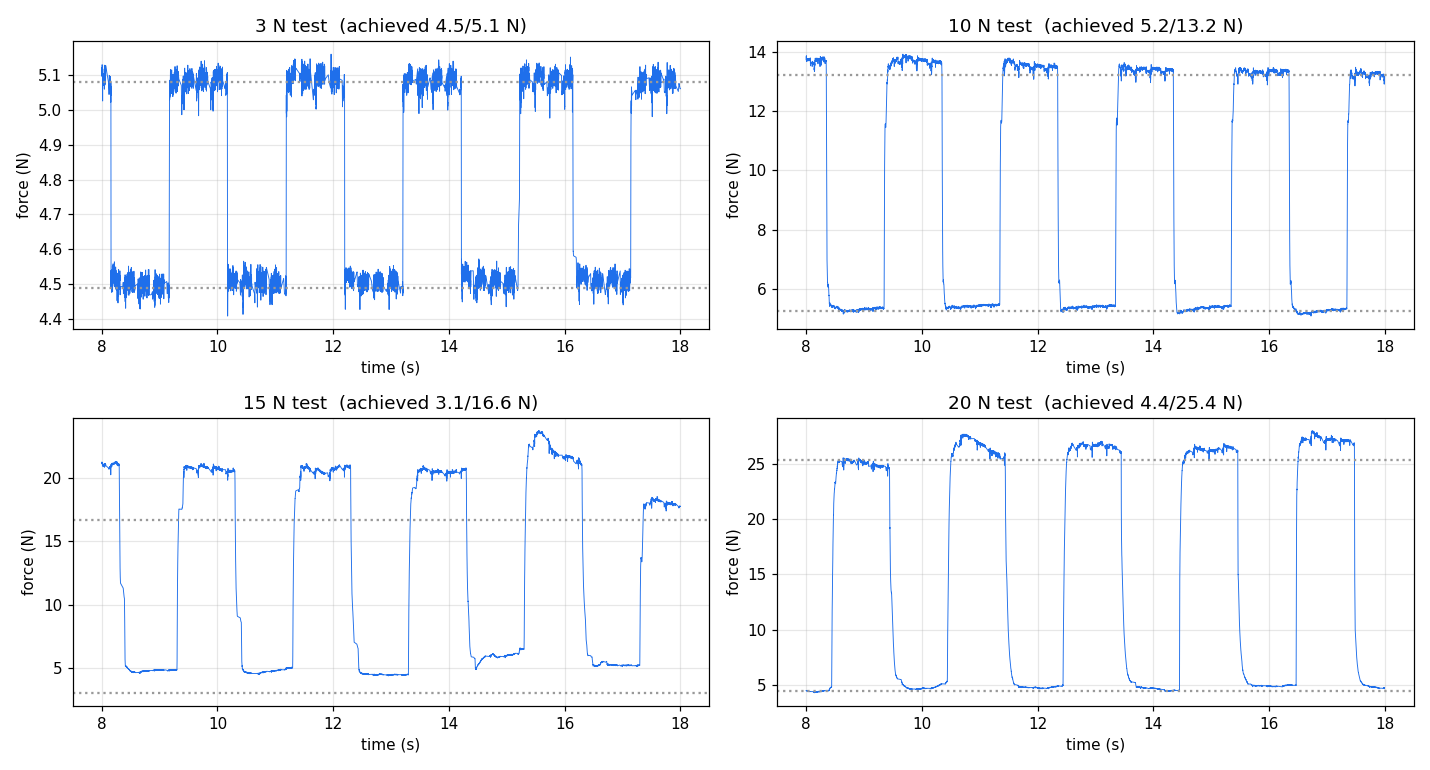
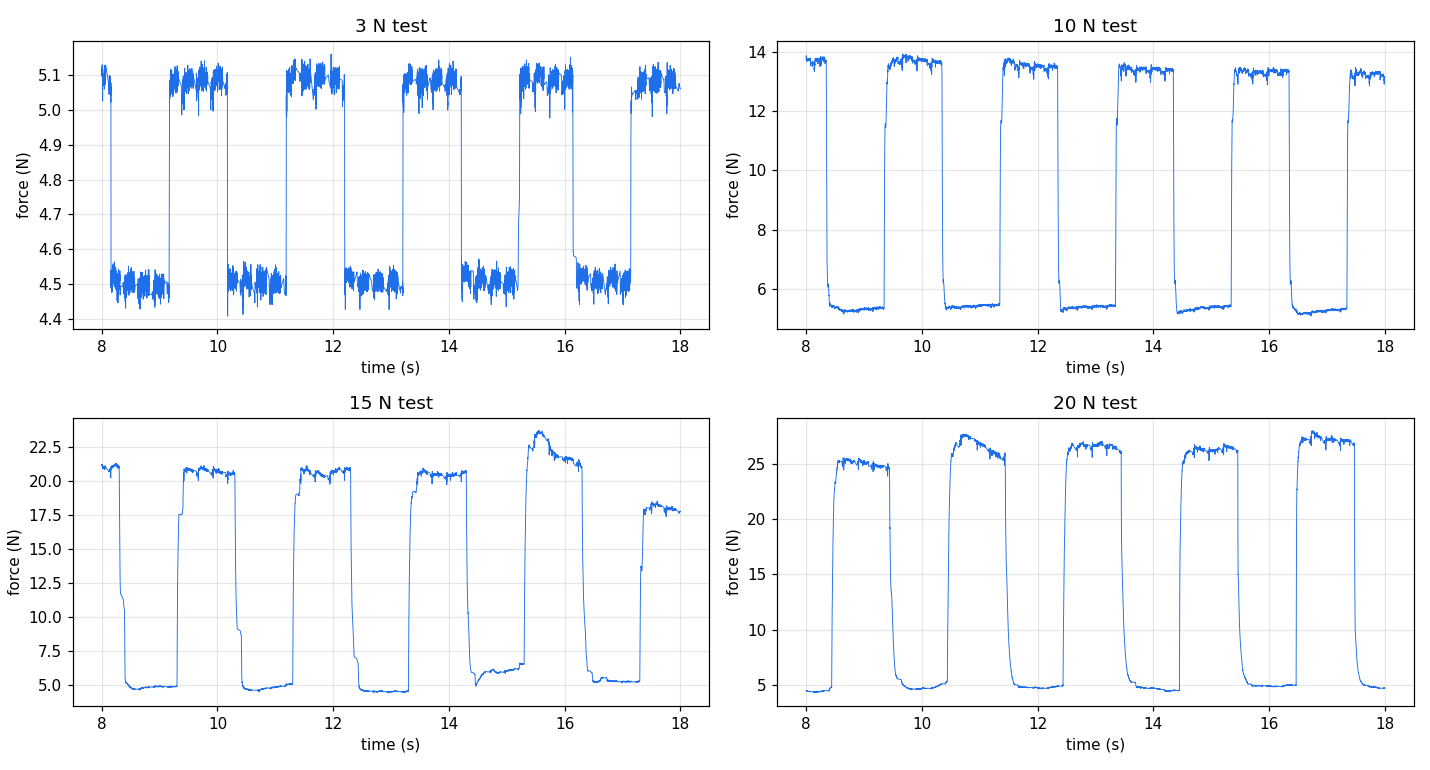
fixed test page

diff --git a/testing.html b/testing.html
@@ -374,7 +374,7 @@
         <div class="content has-text-justified" style="color:#3a3050;">
           <p>Equivalent mechanical impedance of the fingertip, measured across three finger configurations.
             The extended pose is the most compliant and lightly damped; the retracted pose is the stiffest;
-            the mid pose is the most damped.</p>
+            the middle pose is the most damped.</p>
         </div>
 
         <div class="columns is-centered">
@@ -396,29 +396,24 @@
           </div>
         </div>
 
-        <div class="test-figure" data-caption="Impedance magnitude (top) and coherence (bottom). Config 1 shows a deep, sharp resonance (light damping); config 2 is stiffest; config 3 is the most damped, but coherence falls above ~15 Hz.">
-          <img src="static/images/testing/imp_comparison.png" alt="Impedance magnitude and coherence across configurations">
-        </div>
-        <p class="fig-caption has-text-centered">Impedance magnitude (top) and coherence (bottom). Config 1 shows a deep, sharp resonance (light damping); config 2 is stiffest; config 3 is the most damped, but coherence falls above ~15 Hz.</p>
-
         <div class="columns mt-5">
           <div class="column">
             <div class="test-figure" data-caption="Config 1 — extended.">
-              <img src="static/images/testing/imp_config1.png" alt="Config 1 fit">
+              <img src="static/images/testing/impedance_extended.png" alt="Config 1 fit">
             </div>
-            <p class="fig-caption has-text-centered">Config 1 | extended.</p>
+            <p class="fig-caption has-text-centered">Config 1 | Extended.</p>
           </div>
           <div class="column">
             <div class="test-figure" data-caption="Config 2 — retracted.">
-              <img src="static/images/testing/imp_config2.png" alt="Config 2 fit">
+              <img src="static/images/testing/impedance_retracted.png" alt="Config 2 fit">
             </div>
-            <p class="fig-caption has-text-centered">Config 2 | retracted.</p>
+            <p class="fig-caption has-text-centered">Config 2 | Retracted.</p>
           </div>
           <div class="column">
             <div class="test-figure" data-caption="Config 3 — mid.">
-              <img src="static/images/testing/imp_config3.png" alt="Config 3 fit">
+              <img src="static/images/testing/impedance_middle.png" alt="Config 3 fit">
             </div>
-            <p class="fig-caption has-text-centered">Config 3 | mid.</p>
+            <p class="fig-caption has-text-centered">Config 3 | Middle</p>
           </div>
         </div>
       </div>
@@ -431,31 +426,57 @@
         </h2>
 
         <div class="metric-row">
-          <span class="metric-pill"><span class="pill-label">RMS Error</span><span class="pill-value">1.27 mm</span></span>
-          <span class="metric-pill"><span class="pill-label">% Error</span><span class="pill-value">4.2%</span></span>
-          <span class="metric-pill"><span class="pill-label">Max Error</span><span class="pill-value">3.74 mm</span></span>
+          <span class="metric-pill"><span class="pill-label">Average RMS Error</span><span class="pill-value">7.352 mm</span></span>
+          <span class="metric-pill"><span class="pill-label">Average Mean Error</span><span class="pill-value">6.591 mm</span></span>
+          <span class="metric-pill"><span class="pill-label">Average Max Error</span><span class="pill-value">12.573 mm</span></span>
+        </div>
+
+        <div class="video" style="display:flex; flex-direction:column; align-items:center; justify-content:center;">
+          <div style="width:100%; max-width:800px; margin:0 auto; border-radius:12px; overflow:hidden; box-shadow:0 8px 32px rgba(78,42,132,0.18);">
+            <div style="position:relative; aspect-ratio:16/9;">
+              <iframe style="position:absolute; top:0; left:0; width:100%; height:100%; border:none;"
+                src="https://youtu.be/9s27Xjp0ZQc?si=UtnszTUuHPwZIWpe"
+                title="Lissajous Test"
+                referrerpolicy="strict-origin-when-cross-origin"
+                allow="accelerometer; autoplay; clipboard-write; encrypted-media; gyroscope; picture-in-picture; web-share"
+                allowfullscreen></iframe>
+            </div>
+          </div>
+          <p style="max-width:800px; text-align:center; margin-top:10px; font-size:14px; color:#666;">
+            Video of the Lissajous trajectory we attempted to track.
+          </p>
+        </div>
+
+        <div class="columns is-centered">
+          <div class="column is-three-quarters">
+            <div class="test-table-wrap">
+              <table class="test-table">
+                <thead>
+                  <tr>
+                    <th>Trial</th><th>Mean Error(mm)</th><th>RMS Error(mm)</th><th>Max Error(mm)</th>
+                  </tr>
+                </thead>
+                <tbody>
+                  <tr><td>1</td><td>5.919</td><td>6.789</td><td>11.829</td></tr>
+                  <tr><td>2</td><td>6.164</td><td>6.982</td><td>12.045</td></tr>
+                  <tr><td>3</td><td>7.463</td><td>8.076</td><td>12.573</td></tr>
+                  <tr><td>4</td><td>6.817</td><td>7.491</td><td>12.323</td></tr>
+                </tbody>
+              </table>
+            </div>
+          </div>
         </div>
 
         <div class="content has-text-justified" style="color:#3a3050;">
           <p>The fingertip traces a 1:2 Lissajous figure in the flexion plane while a marker is tracked
-          by camera. Integrating the position error over the complete path gives an RMS tracking error
-          of <strong>1.27 mm</strong>, which is about 4% of the 30 mm figure.</p>
+          by camera. From the figure it can be seen that the finger tip does not fully track the desired trajectory, with an average max error of 12.573mm, 
+          however, the result is very repeatable.</p>
+        </div>
+        
+        <div class="test-figure" data-caption="Lassajous Trajectory Tracking">
+          <img src="static/images/testing/lassajous_out.png" alt="Lassajous Trajectory Tracking">
         </div>
 
-        <div class="columns">
-          <div class="column">
-            <div class="test-figure" data-caption="Measured path coloured by error, over the reference Lissajous, with error vs path.">
-              <img src="static/images/testing/trk_result.png" alt="Measured path vs reference">
-            </div>
-            <p class="fig-caption has-text-centered">Measured path coloured by error, over the reference Lissajous, with error vs path.</p>
-          </div>
-          <div class="column">
-            <div class="test-figure" data-caption="Marker detection — tracked centroid on the fingertip dot.">
-              <img src="static/images/testing/trk_detection.png" alt="Marker detection">
-            </div>
-            <p class="fig-caption has-text-centered">Marker detection tracking fingertip dot.</p>
-          </div>
-        </div>
       </div>
 
       <!-- ══════════ 3 · SINUSOIDAL POSITION CONTROL ══════════ -->
@@ -466,26 +487,45 @@
         </h2>
 
         <div class="metric-row">
-          <span class="metric-pill"><span class="pill-label">DC gain</span><span class="pill-value">1.07 (+0.6 dB)</span></span>
-          <span class="metric-pill"><span class="pill-label">−3 dB BW</span><span class="pill-value">3.8 Hz</span></span>
+          <span class="metric-pill"><span class="pill-label">DC gain</span><span class="pill-value">1.29 (+2.22 dB)</span></span>
+          <span class="metric-pill"><span class="pill-label">−3 dB BW</span><span class="pill-value">3.15 Hz</span></span>
         </div>
 
         <div class="content has-text-justified" style="color:#3a3050;">
-          <p>Closed-loop joint position-tracking frequency response from a position chirp. The controller
-          tracks with near-unity gain up to ~3 Hz and a clean low-pass rolloff, with a −3 dB bandwidth of
-          ~3.8 Hz. Runs 1 and 2 sweep from 0.1 to 30 Hz; run 3 sweeps from 30 to 50 Hz.
-          Two independent repeat sweeps give the same gain curve, confirming linearity and repeatability.</p>
+          <p>The finger reached its -3dB bandwidth at a frequency of 3.15Hz, meaning that it was able to achieve a linear response up this frequency. The system begins
+            to experience attenuation after this point, with a significant magniutde drop off at around 7Hz. There also looks to be a resonant peak around 8Hz, however,
+            it is difficult to make a conclusive claim about this, as the coherence drops below 0.6 at frequencies greater than 6Hz. Low coherence is also present in the low
+            frequency range, indicating that the chirp signal was not long enough to get a meaningful reading. The last indicator of our systems performance is the phase delay, 
+            which can be seen to be near zero between 1 and 5 Hz, indicating that minimal phase lag was present at these frequencies. The lack of coherence at higher frequencies 
+            makes the phase response unreliable from this reading.
+          </p>
         </div>
 
-        <div class="test-figure" data-caption="Closed-loop tracking response (gain, phase, and run-to-run repeatability).">
-          <img src="static/images/testing/chirp_bode.png" alt="Position tracking Bode">
+        <div class="video" style="display:flex; flex-direction:column; align-items:center; justify-content:center;">
+          <div style="width:100%; max-width:800px; margin:0 auto; border-radius:12px; overflow:hidden; box-shadow:0 8px 32px rgba(78,42,132,0.18);">
+            <div style="position:relative; aspect-ratio:16/9;">
+              <iframe style="position:absolute; top:0; left:0; width:100%; height:100%; border:none;"
+                src="https://youtu.be/LtvgRochfXE?si=3lrWFA3bX2FksK_C"
+                title="Position Chirp Test"
+                referrerpolicy="strict-origin-when-cross-origin"
+                allow="accelerometer; autoplay; clipboard-write; encrypted-media; gyroscope; picture-in-picture; web-share"
+                allowfullscreen></iframe>
+            </div>
+          </div>
+          <p style="max-width:800px; text-align:center; margin-top:10px; font-size:14px; color:#666;">
+            Video of the position chirp test we ran to obtain the data for this test.
+          </p>
         </div>
-        <p class="fig-caption has-text-centered">Closed-loop tracking response of 0.1 to 30 Hz chirp sweep for runs 1 and 2, and 30 to 50 Hz for run 3.</p>
 
-        <div class="test-figure mt-4" data-caption="Per-run time series and spectrograms; runs 1–2 sweep cleanly to ~30 Hz, run 3 folds at the 50 Hz Nyquist limit.">
-          <img src="static/images/testing/chirp_diag.png" alt="Per-run diagnostics">
+        <div class="test-figure" data-caption="Position Chirp Bode Plot">
+          <img src="static/images/testing/position_chirp_bode.jpg" alt="Position Chirp Bode Plot">
         </div>
-        <p class="fig-caption has-text-centered">Per-run time series and spectrograms; runs 1–2 sweep cleanly to ~30 Hz, run 3 command is corrupted due to aliasing.</p>
+        <p class="fig-caption has-text-centered">Bode plot of position chirp from 0.1 to 30 Hz.</p>
+
+        <div class="test-figure" data-caption="Time series of a the position chirp from 0.1 to 30 Hz.">
+          <img src="static/images/testing/finger_tip_joint_angle.png" alt="Time series of chirp">
+        </div>
+        <p class="fig-caption has-text-centered">Time series of the position chirp from 0.1 to 30 Hz.</p>
       </div>
 
       <!-- ══════════ 4 · VELOCITY CONTROL BANDWIDTH ══════════ -->
@@ -494,54 +534,42 @@
           <span class="title-num">4</span>
           Velocity Control Bandwidth
         </h2>
-
-        <div class="metric-row">
-          <span class="metric-pill"><span class="pill-label">−3 dB BW</span><span class="pill-value">&gt; tested range</span></span>
-          <span class="metric-pill"><span class="pill-label">gain</span><span class="pill-value">~0.6 flat</span></span>
-          <span class="metric-pill"><span class="pill-label">fitted corner</span><span class="pill-value">37.6 Hz</span></span>
-        </div>
-
         <div class="content has-text-justified" style="color:#3a3050;">
-          <p>Fingertip velocity-tracking response under a commanded velocity chirp. The velocity gain is
-          essentially flat with no −3 dB rolloff in the tested band (encoder ~0.6 from 6–28 Hz;
-          motion-capture flat over 1.8–6.8 Hz), so the velocity bandwidth exceeds the tested range; a
-          first-order fit extrapolates a corner near 37.6 Hz.</p>
+          <p>The -3dB bandwidth for the velocity control is 2.5Hz which is slightly lower than the 3.15Hz result for the postion controller. There 
+            seems to be some attenuation present in the system, however, the range between 3 to 10 Hz seems to be somewhat consistent. The phase
+            delay seems to be very large, and in general behaves very inconsistently. This is further supported by the fact that the coherence throughout the 
+            analysis is below 0.8, only showing a good coherence between 7 and 8 Hz. The most likely reason for this is noise accumulation in the derivation of the 
+            velocity values, as we first obtain the position values of the fingertip from a video stream, which we then use to differentiate with Savitsky Golay. This process
+            causes any noise to stack which is felt strongly when converting to the frequency domain.
+          </p>
         </div>
 
-        <div class="columns mt-2">
-          <div class="column">
-            <div class="test-figure" data-caption="Measured angle &amp; velocity vs the commanded chirp.">
-              <img src="static/images/testing/vel_timeseries.png" alt="Velocity time series">
+        <div class="video" style="display:flex; flex-direction:column; align-items:center; justify-content:center;">
+          <div style="width:100%; max-width:800px; margin:0 auto; border-radius:12px; overflow:hidden; box-shadow:0 8px 32px rgba(78,42,132,0.18);">
+            <div style="position:relative; aspect-ratio:16/9;">
+              <iframe style="position:absolute; top:0; left:0; width:100%; height:100%; border:none;"
+                src="https://youtu.be/kEPaQY82J-U?si=DLOizE5mkw0Ku4vn"
+                title="Velocity Chirp Test"
+                referrerpolicy="strict-origin-when-cross-origin"
+                allow="accelerometer; autoplay; clipboard-write; encrypted-media; gyroscope; picture-in-picture; web-share"
+                allowfullscreen></iframe>
             </div>
-            <p class="fig-caption has-text-centered">Measured angle &amp; velocity vs the commanded chirp.</p>
           </div>
-          <div class="column">
-            <div class="test-figure" data-caption="Velocity gain vs frequency with first-order fit.">
-              <img src="static/images/testing/vel_gain.png" alt="Velocity gain">
-            </div>
-            <p class="fig-caption has-text-centered">Velocity gain vs frequency with first-order fit.</p>
-          </div>
+          <p style="max-width:800px; text-align:center; margin-top:10px; font-size:14px; color:#666;">
+            Video of the velocity chirp test we ran to obtain the data for this test.
+          </p>
         </div>
 
-        <div class="columns">
-          <div class="column">
-            <div class="test-figure" data-caption="Velocity spectrogram with chirp ridge.">
-              <img src="static/images/testing/vel_spectrogram.png" alt="Velocity spectrogram">
-            </div>
-            <p class="fig-caption has-text-centered">Velocity spectrogram with chirp ridge.</p>
-          </div>
-          <div class="column">
-            <div class="test-figure" data-caption="Motion-capture fingertip velocity amplitude vs frequency.">
-              <img src="static/images/testing/vel_video_response.png" alt="Video velocity response">
-            </div>
-            <p class="fig-caption has-text-centered">Motion-capture fingertip velocity amplitude vs frequency.</p>
-          </div>
+        <div class="test-figure" data-caption="Velocity Chirp Bode Plot">
+          <img src="static/images/testing/velocity_chirp_bode.png" alt="Velocity Chirp Bode Plot">
         </div>
+        <p class="fig-caption has-text-centered">Bode plot of velocity chirp from 0.1 to 30 Hz.</p>
 
-        <div class="test-note">
-          <span class="note-icon"><i class="fas fa-info-circle"></i></span>
-          <span>Encoder analysis by lock-in demodulation; motion-capture cross-check via marker tracking. The encoder channel froze for ~0.5–5.7 s (1–6 Hz not logged), so the DC-referenced corner is extrapolated; the 30 fps video resolves only to 15 Hz.</span>
+        <div class="test-figure" data-caption="Time series of a the velocity chirp from 0.1 to 30 Hz.">
+          <img src="static/images/testing/velocity.png" alt="Time series of the velocity chirp">
         </div>
+        <p class="fig-caption has-text-centered">Time series of the velocity chirp from 0.1 to 30 Hz.</p>
+
       </div>
 
       <!-- ══════════ 5 · FINGER CYCLE TIME ══════════ -->
@@ -601,10 +629,26 @@
         </div>
 
         <div class="content has-text-justified" style="color:#3a3050;">
-          <p>Step response tracking a 1 Hz square-wave position reference against a spring environment
-          (pip/dip joint, 45.8° ↔ 74.5°). The controller settles all 27 steps within the 0.5 s
-          half-period, with fast rise and essentially no overshoot.</p>
+          <p>Step response tracking a 1 Hz square-wave position reference against a spring environment.
+            The controller settles all 27 steps within the 0.5s half-period, with fast rise and essentially no overshoot.</p>
         </div>
+
+        <div class="video" style="display:flex; flex-direction:column; align-items:center; justify-content:center;">
+          <div style="width:100%; max-width:800px; margin:0 auto; border-radius:12px; overflow:hidden; box-shadow:0 8px 32px rgba(78,42,132,0.18);">
+            <div style="position:relative; aspect-ratio:16/9;">
+              <iframe style="position:absolute; top:0; left:0; width:100%; height:100%; border:none;"
+                src="https://youtu.be/OtefZUolBTg?si=0OZvI-V91jLRrc7U"
+                title="Spring Linear Move"
+                referrerpolicy="strict-origin-when-cross-origin"
+                allow="accelerometer; autoplay; clipboard-write; encrypted-media; gyroscope; picture-in-picture; web-share"
+                allowfullscreen></iframe>
+            </div>
+          </div>
+          <p style="max-width:800px; text-align:center; margin-top:10px; font-size:14px; color:#666;">
+            Video of the finger following a step position referenced again a spring.
+          </p>
+        </div>
+
 
         <div class="columns is-centered">
           <div class="column is-three-quarters">
@@ -624,10 +668,10 @@
           </div>
         </div>
 
-        <div class="test-figure" data-caption="Full run — square-wave command and measured pip/dip response.">
+        <div class="test-figure" data-caption="Square-wave command and measured pip/dip response.">
           <img src="static/images/testing/step_overlay.png" alt="Step response full run">
         </div>
-        <p class="fig-caption has-text-centered">Full run — square-wave command and measured pip/dip response.</p>
+        <p class="fig-caption has-text-centered">Square-wave command and measured pip/dip response.</p>
 
         <div class="columns mt-5">
           <div class="column">

diff --git a/index.html b/index.html
@@ -358,6 +358,20 @@
                     style="position:absolute; top:0; left:0; width:100%; height:100%;"></iframe>
                 </div>
               </div>
+              <div class="item item-video2">
+                <div style="position:relative; aspect-ratio:16/9; border-radius:12px; overflow:hidden; box-shadow:0 4px 20px rgba(78,42,132,0.15);">
+                  <iframe src="https://youtu.be/8C6ZmitdSdc?si=Uf5-EnjSW2iwjyyv"
+                    frameborder="0" allow="autoplay; encrypted-media" referrerpolicy="strict-origin-when-cross-origin" allowfullscreen
+                    style="position:absolute; top:0; left:0; width:100%; height:100%;"></iframe>
+                </div>
+              </div>
+              <div class="item item-video2">
+                <div style="position:relative; aspect-ratio:16/9; border-radius:12px; overflow:hidden; box-shadow:0 4px 20px rgba(78,42,132,0.15);">
+                  <iframe src="https://youtu.be/AMN5tlBY-2A?si=zs16tQRRU-WWfvu7"
+                    frameborder="0" allow="autoplay; encrypted-media" referrerpolicy="strict-origin-when-cross-origin" allowfullscreen
+                    style="position:absolute; top:0; left:0; width:100%; height:100%;"></iframe>
+                </div>
+              </div>
             </div>
           </div>
         </div>

diff --git a/schematics.html b/schematics.html
@@ -555,7 +555,7 @@
           <img src="static/images/electrical-schematic.png" alt="Electrical schematic of the Speedster finger">
         </div>
 
-        <p class="fig-caption mt-2">Figure 6 — Electrical wiring schematic for the Speedster finger system</p>
+        <p class="fig-caption mt-2">Figure 8 — Electrical wiring schematic for the Speedster finger system</p>
       </div>
 
       <!-- ══════════ 6 · ROS 2 NODE GRAPH ══════════ -->
@@ -582,7 +582,7 @@
         </div>
 
         <p class="fig-caption mt-2">
-          Figure 7 — ROS 2 node graph: /simulation_bridge feeds motor feedback to /finger_planner,
+          Figure 9 — ROS 2 node graph: /simulation_bridge feeds motor feedback to /finger_planner,
           which exposes the motion action servers consumed by /finger_whackamole
         </p>
       </div>